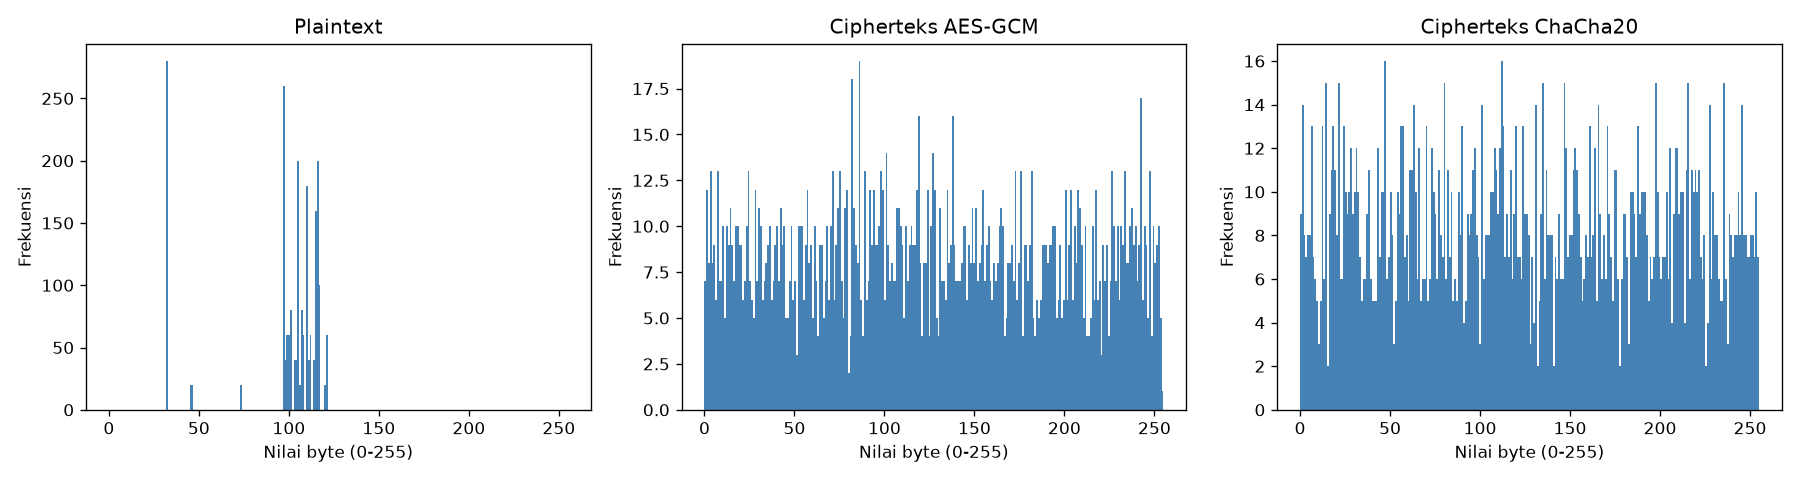
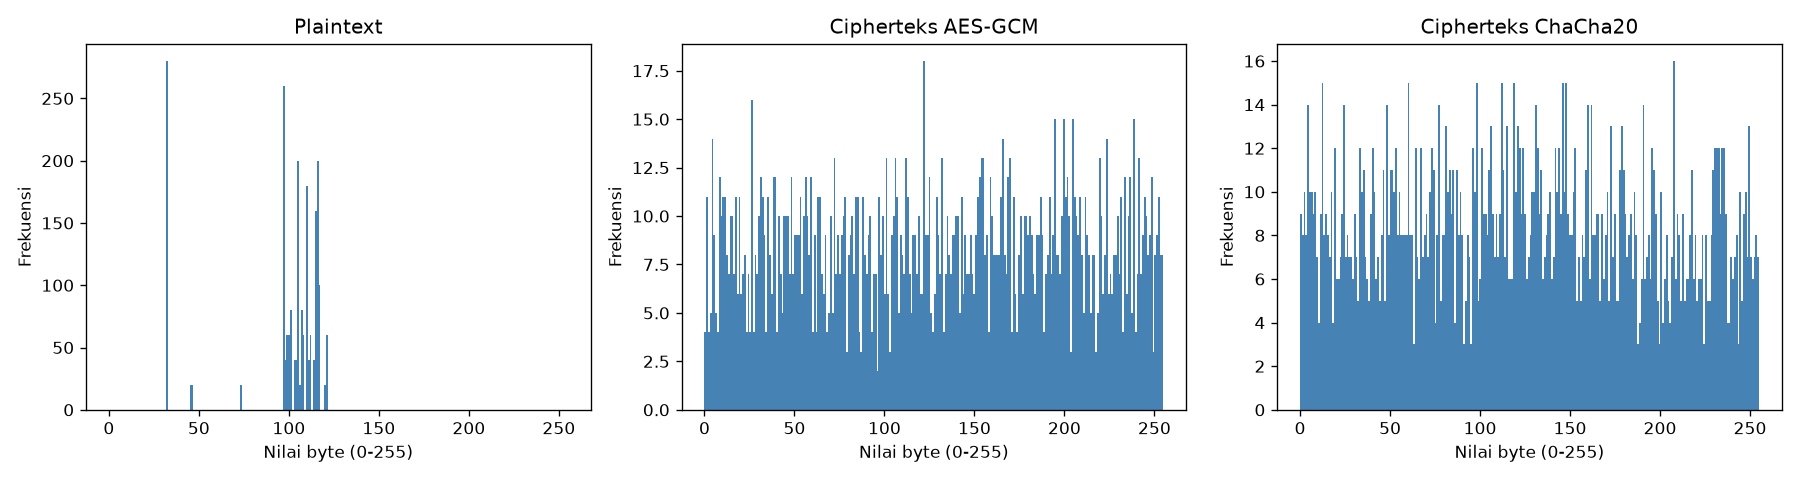
Update benchmark

diff --git a/benchmark/run_tests.py b/benchmark/run_tests.py
@@ -12,7 +12,10 @@ import matplotlib.pyplot as plt
 
 sys.path.insert(0, os.path.abspath(os.path.join(os.path.dirname(__file__), '..')))
 
+from cryptography.hazmat.primitives.ciphers.aead import AESGCM, ChaCha20Poly1305
+
 from crypto_utils import (
+    derive_key,
     encrypt_text, decrypt_text,
     encrypt_text_chacha, decrypt_text_chacha,
     encrypt_file, decrypt_file,
@@ -21,11 +24,16 @@ from crypto_utils import (
 OUTPUT_DIR = os.path.join(os.path.dirname(__file__), "output")
 os.makedirs(OUTPUT_DIR, exist_ok=True)
 
+# Folder berkas uji (bagian luaran: "berkas uji" pada Bagian 5 dokumen tugas).
+# Letakkan gambar dan PDF ASLI dengan nama gambar_uji.png dan dokumen_uji.pdf
+# di folder ini sebelum menjalankan script. Kalau belum ada, script membuat
+# berkas valid otomatis dan menyimpannya di sini.
+TEST_FILES_DIR = os.path.join(os.path.dirname(__file__), "test_files")
+os.makedirs(TEST_FILES_DIR, exist_ok=True)
+
 
 # =========================================================
-# HELPER: file GAMBAR dan PDF yang BENAR-BENAR VALID
-# (dipakai di uji_kebenaran_dekripsi, menggantikan random bytes
-# berlabel header palsu yang dipakai sebelumnya)
+# HELPER: berkas GAMBAR dan PDF untuk uji kebenaran dekripsi
 # =========================================================
 def _buat_png_valid() -> bytes:
     """PNG kecil (32x32) yang valid, dibuat memakai Pillow."""
@@ -40,7 +48,7 @@ def _buat_png_valid() -> bytes:
 
 def _buat_pdf_valid() -> bytes:
     """PDF satu halaman kosong yang valid secara struktur (tanpa dependency
-    tambahan seperti reportlab), bisa dibuka pembaca PDF standar."""
+    tambahan), bisa dibuka pembaca PDF standar."""
     return b"""%PDF-1.4
 1 0 obj
 << /Type /Catalog /Pages 2 0 R >>
@@ -60,8 +68,19 @@ xref
 trailer
 << /Size 4 /Root 1 0 R >>
 startxref
-190
+186
 %%EOF"""
+
+
+def _ambil_berkas_uji(nama: str, pembuat) -> bytes:
+    """Pakai berkas asli di benchmark/test_files/ bila ada. Kalau belum ada,
+    buat otomatis lalu simpan di sana supaya ikut menjadi berkas uji."""
+    path = os.path.join(TEST_FILES_DIR, nama)
+    if not os.path.exists(path):
+        with open(path, "wb") as f:
+            f.write(pembuat())
+    with open(path, "rb") as f:
+        return f.read()
 
 
 # =========================================================
@@ -72,7 +91,7 @@ def uji_kebenaran_dekripsi():
     password = "TestPassword123!"
     hasil = []
 
-    # 8 input teks bervariasi + 2 input file biner (simulasi gambar & PDF)
+    # 8 input teks bervariasi + 2 berkas (gambar & PDF)
     input_teks = [
         "Halo dunia",
         "A" * 500,
@@ -90,13 +109,10 @@ def uji_kebenaran_dekripsi():
         benar = (dec == teks)
         hasil.append({"No": i, "Jenis Input": f"Teks #{i}", "Ukuran (byte)": len(teks.encode()), "Berhasil": benar})
 
-    # Input file biner: GAMBAR dan PDF yang BENAR-BENAR VALID (bukan sekadar
-    # byte acak berlabel header palsu), sesuai syarat eksplisit dosen bahwa
-    # dari 10 test case kebenaran dekripsi harus ada minimal 1 file gambar
-    # dan 1 file PDF yang diuji.
+    # Berkas gambar dan PDF (syarat eksplisit dosen: minimal 1 gambar dan 1 PDF)
     file_tests = [
-        ("gambar_uji.png", _buat_png_valid()),
-        ("dokumen_uji.pdf", _buat_pdf_valid()),
+        ("gambar_uji.png", _ambil_berkas_uji("gambar_uji.png", _buat_png_valid)),
+        ("dokumen_uji.pdf", _ambil_berkas_uji("dokumen_uji.pdf", _buat_pdf_valid)),
     ]
     for i, (nama, data) in enumerate(file_tests, 9):
         in_path = os.path.join(OUTPUT_DIR, nama)
@@ -162,49 +178,69 @@ def uji_waktu_proses():
 # =========================================================
 # 3. AVALANCHE EFFECT
 # =========================================================
-def hitung_avalanche(bytes1: bytes, bytes2: bytes) -> float:
-    """Menghitung persentase bit yang berbeda antara dua rangkaian byte."""
+def _bit_beda(bytes1: bytes, bytes2: bytes):
+    """Return (jumlah bit berbeda, total bit yang dibandingkan)."""
     panjang = min(len(bytes1), len(bytes2))
-    total_bit = panjang * 8
-    bit_berbeda = 0
+    beda = 0
     for i in range(panjang):
-        xor_result = bytes1[i] ^ bytes2[i]
-        bit_berbeda += bin(xor_result).count("1")
-    return (bit_berbeda / total_bit) * 100 if total_bit > 0 else 0
+        beda += bin(bytes1[i] ^ bytes2[i]).count("1")
+    return beda, panjang * 8
 
 
 def uji_avalanche_effect():
-    print("\n[3] Menghitung avalanche effect...")
+    """
+    Avalanche effect: persentase bit cipherteks yang berubah bila SATU bit
+    plainteks atau SATU karakter password (kunci) diubah.
+
+    PENTING (metodologi): salt dan nonce DIKUNCI tetap khusus di pengujian ini.
+    Aplikasi asli membuat salt dan nonce acak di setiap enkripsi, sehingga dua
+    cipherteks selalu berbeda ~50% walau inputnya identik. Kalau tidak dikunci,
+    angka yang keluar bukan efek dari perubahan 1 bit. Salt dan nonce tetap ini
+    HANYA dipakai di pengujian, tidak pernah di aplikasi.
+
+    Hasil untuk plainteks dipisah: badan cipherteks dan tag autentikasi (16 byte
+    terakhir). GCM dan ChaCha20-Poly1305 bekerja seperti stream cipher (badan
+    cipherteks = plainteks XOR keystream), sehingga 1 bit plainteks hanya mengubah
+    1 bit badan cipherteks, sedangkan tag berubah total.
+    """
+    print("\n[3] Menghitung avalanche effect (salt & nonce dikunci)...")
     password = "TestPassword123!"
-    plaintext = "Pesan uji avalanche effect untuk enkripsi modern AES dan ChaCha20" * 3
+    password_ubah = password[:-1] + "X"
+    salt = bytes(16)    # dikunci tetap, khusus pengujian
+    nonce = bytes(12)   # dikunci tetap, khusus pengujian
+
+    plaintext = ("Pesan uji avalanche effect untuk enkripsi modern AES dan ChaCha20" * 3).encode()
+    plaintext_ubah = bytearray(plaintext)
+    plaintext_ubah[-1] ^= 0x01          # ubah tepat 1 bit
+    plaintext_ubah = bytes(plaintext_ubah)
+
     hasil = []
+    for nama, cls in [("AES-256-GCM", AESGCM), ("ChaCha20-Poly1305", ChaCha20Poly1305)]:
+        kunci = derive_key(password, salt)[0]
+        kunci_ubah = derive_key(password_ubah, salt)[0]
 
-    for algo_name, enc_func in [("AES-256-GCM", encrypt_text), ("ChaCha20-Poly1305", encrypt_text_chacha)]:
-        # Kasus A: ubah 1 bit plaintext
-        plaintext_asli = plaintext
-        plaintext_ubah = plaintext[:-1] + chr(ord(plaintext[-1]) ^ 1)
+        dasar = cls(kunci).encrypt(nonce, plaintext, None)
+        ct_plain = cls(kunci).encrypt(nonce, plaintext_ubah, None)
+        ct_pass = cls(kunci_ubah).encrypt(nonce, plaintext, None)
 
-        enc1 = base64.b64decode(enc_func(plaintext_asli, password))
-        enc2 = base64.b64decode(enc_func(plaintext_ubah, password))
-        avalanche_plaintext = hitung_avalanche(enc1, enc2)
-
-        # Kasus B: ubah 1 karakter password
-        password_asli = password
-        password_ubah = password[:-1] + "X"
-
-        enc3 = base64.b64decode(enc_func(plaintext_asli, password_asli))
-        enc4 = base64.b64decode(enc_func(plaintext_asli, password_ubah))
-        avalanche_key = hitung_avalanche(enc3, enc4)
+        b_body, n_body = _bit_beda(dasar[:-16], ct_plain[:-16])
+        b_tag, n_tag = _bit_beda(dasar[-16:], ct_plain[-16:])
+        b_all, n_all = _bit_beda(dasar, ct_plain)
+        b_pw, n_pw = _bit_beda(dasar, ct_pass)
 
         hasil.append({
-            "Algoritma": algo_name,
-            "Avalanche (ubah 1 bit plaintext) %": round(avalanche_plaintext, 2),
-            "Avalanche (ubah 1 karakter password) %": round(avalanche_key, 2),
+            "Algoritma": nama,
+            "1 bit plaintext: badan cipherteks (%)": round(b_body / n_body * 100, 3),
+            "1 bit plaintext: tag autentikasi (%)": round(b_tag / n_tag * 100, 2),
+            "1 bit plaintext: keseluruhan (%)": round(b_all / n_all * 100, 2),
+            "1 karakter password: keseluruhan (%)": round(b_pw / n_pw * 100, 2),
         })
 
     df = pd.DataFrame(hasil)
     print(df.to_string(index=False))
-    print("Catatan: idealnya nilai avalanche mendekati 50% (perubahan acak/tidak terprediksi).")
+    print("Catatan: ubah password mengubah kunci sehingga seluruh keystream berubah (~50%).")
+    print("Ubah 1 bit plaintext hanya mengubah 1 bit badan cipherteks (sifat mode stream);")
+    print("integritas dijaga oleh tag autentikasi yang berubah ~50%.")
     return df
 
 
